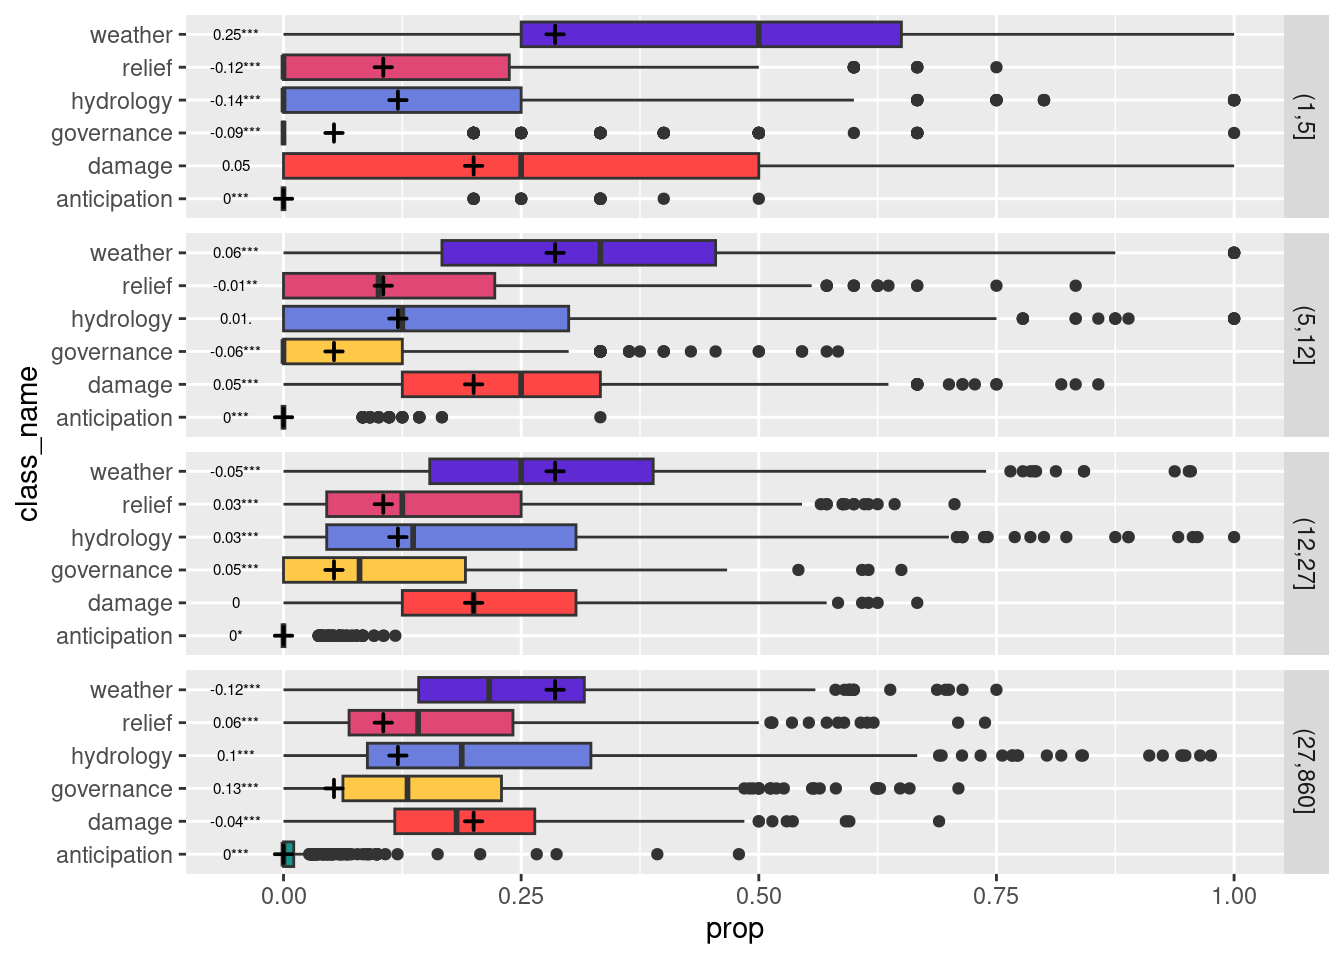
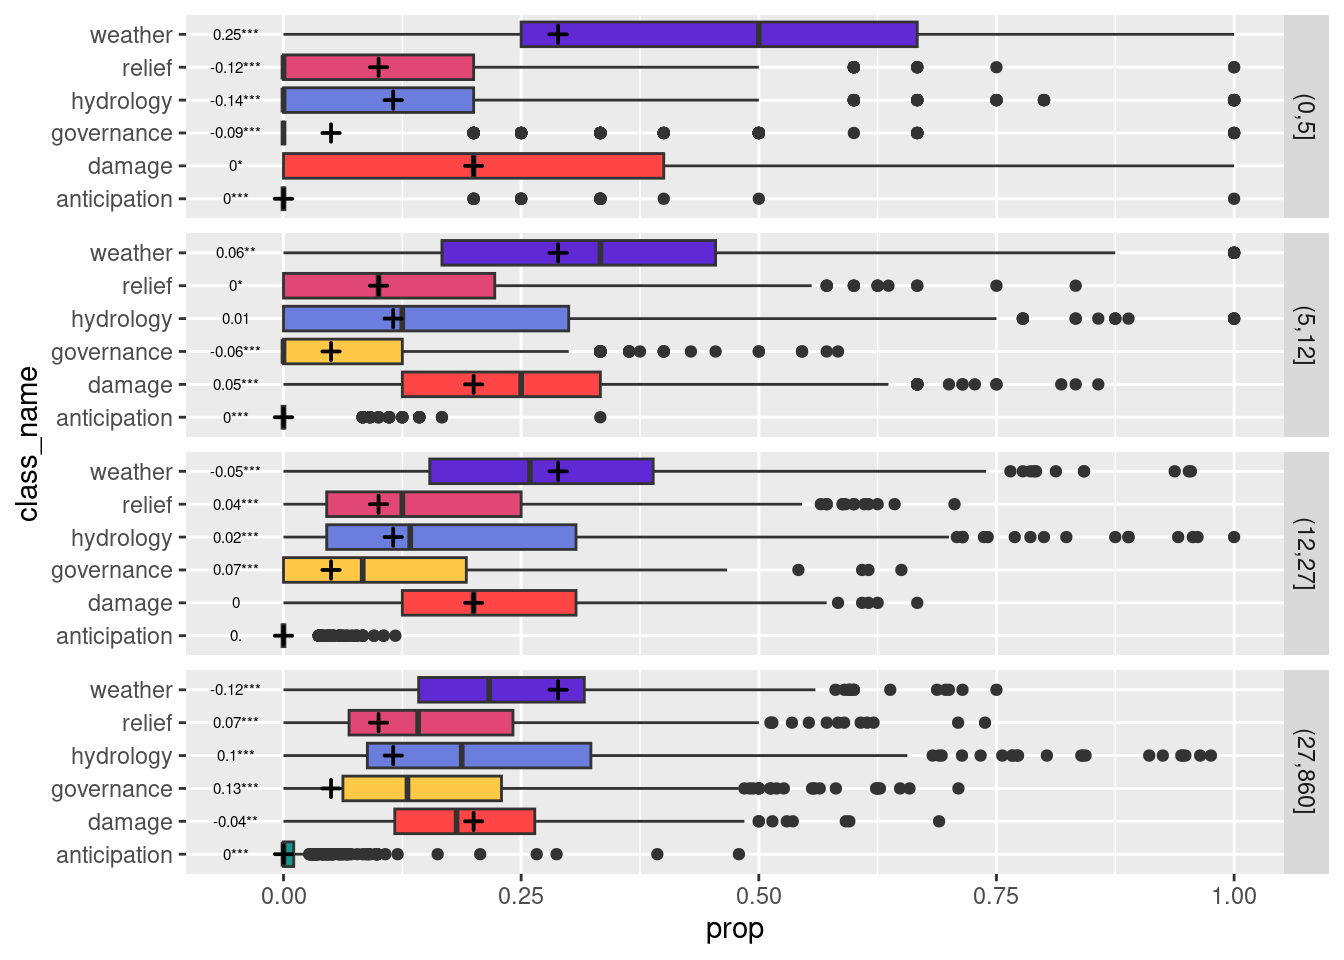
complex_topics random forest

diff --git a/index.html b/index.html
@@ -160,7 +160,7 @@ Identifying the data distribution is capital for interpretation and analysis, gi
 </div>
 <p>We carried out a first Wikidata query (<a href="#fig-queries">Figure&nbsp;1</a> .a) to get all instances of floods or subclasses of floods as well as a few descriptors of these. The events can be located through <code>coords</code> (geographical coordinates) <code>loc</code> (a location -which can be any type of geographical item documented in Wikidata, e.g.&nbsp;a city, region or country- which in turn might provide coordinates-), or simply through the <code>country</code> variable -which might also in turn provide coordinates-). We used all these variables to try and provide coordinates for as many events as possible, with the greatest precision possible: we prioritized <code>coords</code> (when available) over coordinates corresponding to location, and coordinates corresponding to location (when available) to coordinates corresponding to country.</p>
 <p>We carried out a second Wikidata query (<a href="#fig-queries">Figure&nbsp;1</a> .b) for each flood listed by this first query, to gather information about its time of occurrence (wdt:P585), start time (wdt:P580) and end time (wdt:P582). We hence tried to provide a date for each of the events using either one of the previous items, prioritizing the date provided by time of occurrence (if available) over the average date between start time and end time (if both were available), average date between start time and end time over start time or end time (if only one was available), and start time or end time over four-digit words in the events’ label if present (as labels generally consist of a mention of type of event, time and place). Time-related information on Wikidata are specified with varying precision, which when regarding floods generally vary between dayly precision and yearly precision.</p>
-<p>We carried out a third Wikidata query (<a href="#fig-queries">Figure&nbsp;1</a> .c) for each country listed by the first query, to gather information about their coordinates, the languages used by their population (either official or used languages), and Human Development Index (HDI).</p>
+<p>We carried out a third Wikidata query (<a href="#fig-queries">Figure&nbsp;1</a> .c) for each country listed by the first query, to gather information about their coordinates, the languages used by their population (either official or used languages), Human Development Index (HDI), population and area.</p>
 </section>
 <section id="comparison-to-the-dartmouth-flood-observatory-data" class="level2">
 <h2 class="anchored" data-anchor-id="comparison-to-the-dartmouth-flood-observatory-data">Comparison to the Dartmouth Flood Observatory data</h2>
@@ -178,7 +178,7 @@ Identifying the data distribution is capital for interpretation and analysis, gi
 </section>
 <section id="statistical-analyses" class="level2">
 <h2 class="anchored" data-anchor-id="statistical-analyses">Statistical analyses</h2>
-<p>We ran all statistical analyses and produced graphics with the R software <span class="citation" data-cites="R_base">(<a href="#ref-R_base" role="doc-biblioref"><strong>R_base?</strong></a>)</span>. When comparing distributions through categories (associating this comparison with boxplots) we tested the difference of each category’s median with the other categories’ median using the Wilcoxon test, a non-parametric test based on ranks, in order not to rely on a normal distribution hypothesis or on asymptotic conditions. When we had more than two categories to compare, we compared one category to all other categories, pooling them. We generally considered models with two levels, the response depending on two categorical variables X_1 and X_2. We tested the significance of the difference in median of each level of X_1 against all other levels of X_1, and for each level of X_1, the difference in median of each level of X_2 against all other levels of X_2. We displayed on the graphics the difference in median for each group associated with a code for the p-value: <code>.</code>:p&lt;0.1, <code>*</code>:p&lt;0.05, <code>**</code>:p&lt;0.01, <code>***</code>:p&lt;0.001.</p>
+<p>We ran all statistical analyses and produced graphics with the R software <span class="citation" data-cites="r_core_team_r_2024">(<a href="#ref-r_core_team_r_2024" role="doc-biblioref">R Core Team 2024</a>)</span>. When comparing distributions through categories (associating this comparison with boxplots) we tested the difference of each category’s median with the other categories’ median using the Wilcoxon test, a non-parametric test based on ranks, in order not to rely on a normal distribution hypothesis or on asymptotic conditions. When we had more than two categories to compare, we compared one category to all other categories, pooling them. We generally considered models with two levels, the response depending on two categorical variables X_1 and X_2. We tested the significance of the difference in median of each level of X_1 against all other levels of X_1, and for each level of X_1, the difference in median of each level of X_2 against all other levels of X_2. We displayed on the graphics the difference in median for each group associated with a code for the p-value: <code>.</code>:p&lt;0.1, <code>*</code>:p&lt;0.05, <code>**</code>:p&lt;0.01, <code>***</code>:p&lt;0.001.</p>
 </section>
 <section id="text-analysis-of-wikipedia-pages" class="level2">
 <h2 class="anchored" data-anchor-id="text-analysis-of-wikipedia-pages">Text analysis of Wikipedia pages</h2>
@@ -213,6 +213,7 @@ Identifying the data distribution is capital for interpretation and analysis, gi
 <h2 class="anchored" data-anchor-id="wikidata-1">Wikidata</h2>
 <section id="space-time-framework" class="level3">
 <h3 class="anchored" data-anchor-id="space-time-framework">Space-time framework</h3>
+<p>The initial query provided <strong>792 Wikidata flood events</strong>.</p>
 <div class="cell">
 <div class="cell-output-display">
 <table class="table table-sm table-striped small">
@@ -259,6 +260,7 @@ Identifying the data distribution is capital for interpretation and analysis, gi
 </table>
 </div>
 </div>
+<p>In terms of spatial precision, most coordinates for floods are inferred from their locations (places where they occur such as cities, regions, and mainly countries), while few (15.5%) come with direct coordinates.</p>
 <div class="cell">
 <div class="cell-output-display">
 <table class="table table-sm table-striped small">
@@ -317,7 +319,7 @@ Identifying the data distribution is capital for interpretation and analysis, gi
 </table>
 </div>
 </div>
-<p>The initial query provided <strong>792 Wikidata flood events</strong>. In terms of spatial precision, most coordinates are inferred from either variable country or variable location (the major part of provided locations being countries too). The date of most events is documented either directly or through the label of the event. Most events’ dates are provided with day precision but an important proportion (about one third) is provided with only annual precision.</p>
+<p>The date of most events is documented either directly or through the label of the event. Most events’ dates are provided with day precision but an important proportion (about one third) is provided with only annual precision.</p>
 </section>
 <section id="comparison-to-dfo-data" class="level3">
 <h3 class="anchored" data-anchor-id="comparison-to-dfo-data">Comparison to DFO data</h3>
@@ -348,7 +350,7 @@ Identifying the data distribution is capital for interpretation and analysis, gi
 </div>
 </div>
 <p><a href="#fig-deathtoll_WD_DFO">Figure&nbsp;3</a> <em>a) Distribution of deathtolls estimates in Wikidata and DFO according to the estimates being paired or not (deathtoll estimates are paired when the events in Wikidata have been paired to an event in DFO). b) Comparison of deathtoll paired estimates in Wikidata and DFO for the same events. The symbol varies according to the deathtoll estimate in Wikidata being sourced, indicating a higher reliability of the estimate.</em></p>
-<p><a href="#fig-deathtoll_WD_DFO">Figure&nbsp;3</a> shows that the deathtoll values are generally higher in the WD dataset than in the DFO dataset, which is consistent with the fact that the WD dataset is biased towards events with high societal impact. However, the correlation between the deathtoll values in the two datasets is quite high. In particular, there is a portion of the matched events for which the recorded deathtoll is exactly the same (276 events i.e.&nbsp;52.67% of the paired events) or of the same order of magnitude (361 events i.e.&nbsp;68.89% of the paired events) which suggests not only that the pairing of events is mainly correct, despite the difficulty of joining completely independently designed datasets, but also that the WD dataset is not entirely about the events with highest deathtoll values.</p>
+<p><a href="#fig-deathtoll_WD_DFO">Figure&nbsp;3</a> shows that the deathtoll values are generally higher in the WD dataset than in the DFO dataset, which is consistent with the fact that the WD dataset is biased towards events with high societal impact. However, the correlation between the deathtoll values in the two datasets is quite high. In particular, there is a portion of the matched events for which the recorded deathtoll is exactly the same (276 events i.e.&nbsp;52.67% of the paired events) or of the same order of magnitude (361 events i.e.&nbsp;68.89% of the paired events) which suggests not only that the pairing of events is mainly correct, despite the difficulty of joining completely independently designed datasets, but also that the WD dataset also deals with events with lower deathtoll values.</p>
 <div class="cell">
 <div class="cell-output-display">
 <div id="fig-wd_year" class="quarto-figure quarto-figure-center anchored">
@@ -474,7 +476,7 @@ Identifying the data distribution is capital for interpretation and analysis, gi
 </div>
 <p><a href="#fig-curation">Figure&nbsp;8</a> <em>Mean length of edits as a function of number of edits. The residuals of these relationship correspond to a relative mean edit length, and curation is calculated as minus the residuals. The articles in language ‘simple’ (for ‘simple English’) being destined to be particularly synthetic, we did not take include them in the model.</em></p>
 <p><a href="#fig-curation">Figure&nbsp;8</a> shows that beyond a few edits (here, we consider the threshold is 10), the mean edit length for an article depends on the total number of edits for that same article, in an approximately linear relationship with both variables being log-transformed. The more edits a page has undergone, the lower the mean edit length: there is a tendency towards lower mean edit length as the page ‘matures’, with edits in a more advanced writing stage corresponding to suppressions, corrections, or slight modifications while edits at the beginning of the writing process tend to be more frequently text additions. We consider the difference between actual mean edit length edit and predicted mean edit length (based on number of edits) as a measure of relative edit length (it corresponds to a measure of mean edit length decorrelated from this previously described writing stage effect). We calculate the curation score as corresponding to minus the relative edit length (i.e.&nbsp;high level of curation corresponds to smaller-sized edits). These residuals are normalized to correspond to scores ranging from -1 (rather lowly curated articles) to 1 (very highly curated articles). These curation scores are only available for articles that have undergone at least 10 edits, so that article stubs created mainly from an automatic translation process from another Wikipedia page are not included in the analysis of curation effects.</p>
-<p>We expect curation to be linked to the characteristics of the articles and the events they describe. We hypothesize in particular that curation will be higher for articles that are longer (editing efforts focused on longer articles), written in a language local to the event and that are about events with a high deathtoll (more public scrutiny). We also consider other explanatory variables such as time (as there can be varying standards for Wikipedia pages redaction), HDI (as a proxy to the number of internet users), affected country’s population and population density (as (as more public scrutiny and more people potentially physically affected by the flood could influence the curation process).</p>
+<p>We expect curation to be linked to the characteristics of the articles and the events they describe. We hypothesize in particular that curation will be higher for articles that are longer (editing efforts focused on longer articles), written in a language local to the event and that are about events with a high deathtoll (more public scrutiny). We also consider other explanatory variables such as time (as there can be varying standards for Wikipedia pages redaction), HDI (as a proxy to the proportion of internet users in the population), affected country’s population and population density (as more public scrutiny and more people potentially physically affected by the flood could influence the curation process).</p>
 <div class="cell">
 <div class="cell-output-display">
 <div id="fig-curation_causes" class="quarto-figure quarto-figure-center anchored">
@@ -487,19 +489,19 @@ Identifying the data distribution is capital for interpretation and analysis, gi
 </div>
 <p><a href="#fig-curation_causes">Figure&nbsp;9</a> <em>Links between curation of Wikipedia articles and a set of articles’ descriptors (fushia), events’ descriptors (green) and mixed descriptors (brown) assessed through a random forest regression. a) shows the relative importance of the descriptors in the prediction. The subsequent graphics show the partial effect of the descriptors on curation</em></p>
 <p><a href="#fig-curation_causes">Figure&nbsp;9</a> .a shows that the level of curation of an article is primarily linked to other characteristics of the page, in particular the length of the article, and the article being written in an language local to the event. It is also linked to characteristics of the event, mainly year, HDI, density and deathtoll, and less importantly so to total population of the country where the event occurred. <a href="#fig-curation_causes">Figure&nbsp;9</a> .b shows that curation is positively correlated to articles length for articles below a certain size and then negatively for longer ones, possibly indicating that curation effort is focused on articles beyond a certain size (1000 to 10000 signs) but tend to be lower for the largest articles. Curation depends largely on the events’ year of occurrence. Curation tend to be lower for events before 2000, probably due to the difficulty of providing sources (as urls mainly) for all statements, and increases rapidly after 2000, possibly due to the combination of an increase of accessible numerical sources and more enforcement of editing standards. Contrary to our expectation, curation is lower in languages local to the event. This could be due to a larger proportion of edits being done by local people motivated by a different set of goals compared to frequent Wikipedia contributors (e.g., aiming to add vernacular content rather than improving pre-existing content). HDI is the next most important explanatory variable, with higher levels corresponding to less curation, as we surmised, although there is quite a high variation of curation for the highest HDIs, possibly due to these representing few languages and thus being affected by Wikipedia language editions with varying standards. As expected, articles are all the more curated that the event’s deathtoll is important, which reflects the fact that the level of scrutiny of Wikipedia editors on pages is correlated to the actual event’s social impact. The density of the country where the event occurred is also positively correlated to the level of curation, while total population is negatively correlated. This might seem slightly contradictory with the fact that curation is lower for local events in the sense that editors being potentially directly affected by the event does not seem to favor curation. Hence this could actually reflect the fact that editors living in densely populated areas are more likely to be frequent Wikipedia contributors and thus more likely to be familiar with Wikipedia’s editing standards.</p>
-<p>We expect that the level of curation of an article will be correlated to the topics addressed in the article. We hypothesize that higher-quality articles will correspond to a higher level of curation and address topics which necessitate a deeper level of analysis (such as anticipation, governance, and hydrology) in higher proportions.</p>
+<p>We expect that the level of curation of an article will be correlated to the topics addressed in the article. We hypothesize that higher-quality articles will correspond to a higher level of curation and address topics which necessitate a deeper level of analysis (such as anticipation, governance, and hydrology) in higher proportions. We also expect higher-impacts events (in terms of deathtoll for instance) to cause this proportion to be higher, with complex issues around responsibility, causes, and adequacy of preventive measures only gaining attention when the damage is significant. To explore this relationship we sum the proportion in which these topics are addressed in each article and run a random forest regression model explaining this complex topics proportion.</p>
 <div class="cell">
 <div class="cell-output-display">
-<div id="fig-curation_topics" class="quarto-figure quarto-figure-center anchored">
+<div id="fig-complex_topics" class="quarto-figure quarto-figure-center anchored">
 <figure class="figure">
-<p><img src="index_files/figure-html/fig-curation_topics-1.png" class="img-fluid figure-img" width="672"></p>
+<p><img src="index_files/figure-html/fig-complex_topics-1.png" class="img-fluid figure-img" width="960"></p>
 <figcaption class="figure-caption">Figure&nbsp;10: —</figcaption>
 </figure>
 </div>
 </div>
 </div>
-<p><a href="#fig-curation_topics">Figure&nbsp;10</a><em>:</em> <em>Proportion of topics in each article according to its curation level. We classified articles into two categories representing the 33% most curated articles (high curation) vs all other articles. For each class we tested the difference in proportion based on a Wilcoxon rank test. The symbols correspond to p-values with <code>.</code>:p&lt;0.1, <code>*</code>:p&lt;0.05, <code>**</code>:p&lt;0.01, <code>***</code>:p&lt;0.001).</em></p>
-<p><a href="#fig-curation_topics">Figure&nbsp;10</a> shows that, contrary to our hypothesis, articles with high levels of curation tend to address topics such as relief, hydrology and governance in lower proportions. This hints at Wikipedia’s curation process actually tending to lower the proportion in which these topics appear (for instance through the suppression of unchecked or debatable statements).</p>
+<p><strong>?@fig-curation_topics</strong> <em>Links between proportion of complex topics in the Wikipedia articles and a set of articles’ descriptors (fushia), events’ descriptors (green) and mixed descriptors (brown) assessed through a random forest regression. a) shows the relative importance of the descriptors in the prediction. The subsequent graphics show the partial effect of the descriptors on the proportion</em></p>
+<p><strong>?@fig-curation_topics</strong> shows that the primary explanation to the proportion in which complex topics are addressed in the article is the length of the article (as we had already surmised from <a href="#fig-topic_per_length">Figure&nbsp;7</a>). The second one is the year of the event, with a high proportion of complex topics in the articles reporting older, historical events. That proportion decreases greatly from 1970 to 2015 and then starts increasing again, maybe due to increasing standards in the reporting of events. The proportion of complex topics addressed is also positively correlated to HDI. The proportion of complex topics is positively correlated to deathtoll for deathtolls up to 80, but negatively so beyond, reflecting that up to a certain point the discussion of causes and responsibility is increased by the event’s damage severity but for higher deathtolls the narration of the event’s unfolding in terms of weather and damage takes precedence. Contrary to our hypothesis also, articles with high levels of curation tend to address complex topics in lower proportions. This hints at Wikipedia’s curation process actually tending to lower the proportion in which these topics appear (for instance through the suppression of unchecked or debatable statements). The effects of population and population density is difficult to interpret, as they probably result both from the number of people impacted and the variations in the standards of the people contributing the articles. The proportion of complex topics is lower for articles written in a local language, maybe reflecting the fact that providing documented statements about complex, potentially controversial topics surrounding floods is more difficult when one has more personal involvement and possibly less hindsight on an event.</p>
 </section>
 <section id="number-of-views" class="level3">
 <h3 class="anchored" data-anchor-id="number-of-views">Number of views</h3>
@@ -516,7 +518,7 @@ Identifying the data distribution is capital for interpretation and analysis, gi
 </div>
 </div>
 </div>
-<p><a href="#fig-views">Figure&nbsp;11</a><em>:</em> Links between short-term number of views of Wikipedia articles (during the 3 months following their creation) and a set of articles’ descriptors (fushia), events’ descriptors (green) and mixed descriptors (brown) assessed through a random forest regression. a) shows the relative importance of the descriptors in the prediction. The subsequent graphics show the partial effect of the descriptors on response.</p>
+<p><a href="#fig-views">Figure&nbsp;11</a>:<em>Links between short-term number of views of Wikipedia articles (during the 3 months following their creation) and a set of articles’ descriptors (fushia), events’ descriptors (green) and mixed descriptors (brown) assessed through a random forest regression. a) shows the relative importance of the descriptors in the prediction. The subsequent graphics show the partial effect of the descriptors on response.</em></p>
 <p><a href="#fig-views">Figure&nbsp;11</a> .a shows that the short-term number of views of an article is most importantly correlated to curation, though not in the way we expected since highest number of views correspond to low levels of curation. As short-term number of views is also positively linked to article length, this could be interpreted as a sign that quantity of content (rather than quality) is the factor behind the number of views, especially shortly after a crisis, and that curation effort is not particularly focused on the articles generating the most views. The short-term number of views is also, as we expected, positively correlated to the events’ deathtolls. The link to HDI is a bit more difficult to interpret with lowest and highest HDIs corresponding to the most views (independently of e.g.&nbsp;population density or deathtoll). We suspect the high number of views for lowest HDI could be due to e.g.&nbsp;Non-Governmental Organizations channelling foreign and digital-oriented attention to flood events in very vulnerable areas. The short-term number of views tends to increase over the years, and is higher for articles written in a local language, which was to be expected. The effect of population density is difficult to interpret, while total population is positively correlated to the short-term number of view, hinting at the sheer volume of viewers being linked to the size of national public audience.</p>
 </section>
 </section>
@@ -653,6 +655,9 @@ O’Reilly, Tim. 2020. <span>“4. <span>What</span> <span>Is</span> <span>Web</
 </div>
 <div id="ref-oeberst_knowledge_2014" class="csl-entry" role="listitem">
 Oeberst, Aileen, Iassen Halatchliyski, Joachim Kimmerle, and Ulrike Cress. 2014. <span>“Knowledge <span>Construction</span> in <span>Wikipedia</span>: <span>A</span> <span>Systemic</span>-<span>Constructivist</span> <span>Analysis</span>.”</span> <em>Journal of the Learning Sciences</em> 23 (2): 149–76. <a href="https://doi.org/10.1080/10508406.2014.888352">https://doi.org/10.1080/10508406.2014.888352</a>.
+</div>
+<div id="ref-r_core_team_r_2024" class="csl-entry" role="listitem">
+R Core Team. 2024. <em>R: <span>A</span> <span>Language</span> and <span>Environment</span> for <span>Statistical</span> <span>Computing</span></em>. Vienna, Austria: R Foundation for Statistical Computing. <a href="https://www.R-project.org/">https://www.R-project.org/</a>.
 </div>
 <div id="ref-ratinaud_iramuteq_2009" class="csl-entry" role="listitem">
 Ratinaud, Pierre. 2009. <span>“Iramuteq: <span>Interface</span> de <span>R</span> Pour Les <span>Analyses</span> <span>Multidimensionnelles</span> de <span>Textes</span> Et de <span>Questionnaires</span>.”</span> <a href="http://www.iramuteq.org">http://www.iramuteq.org</a>.
